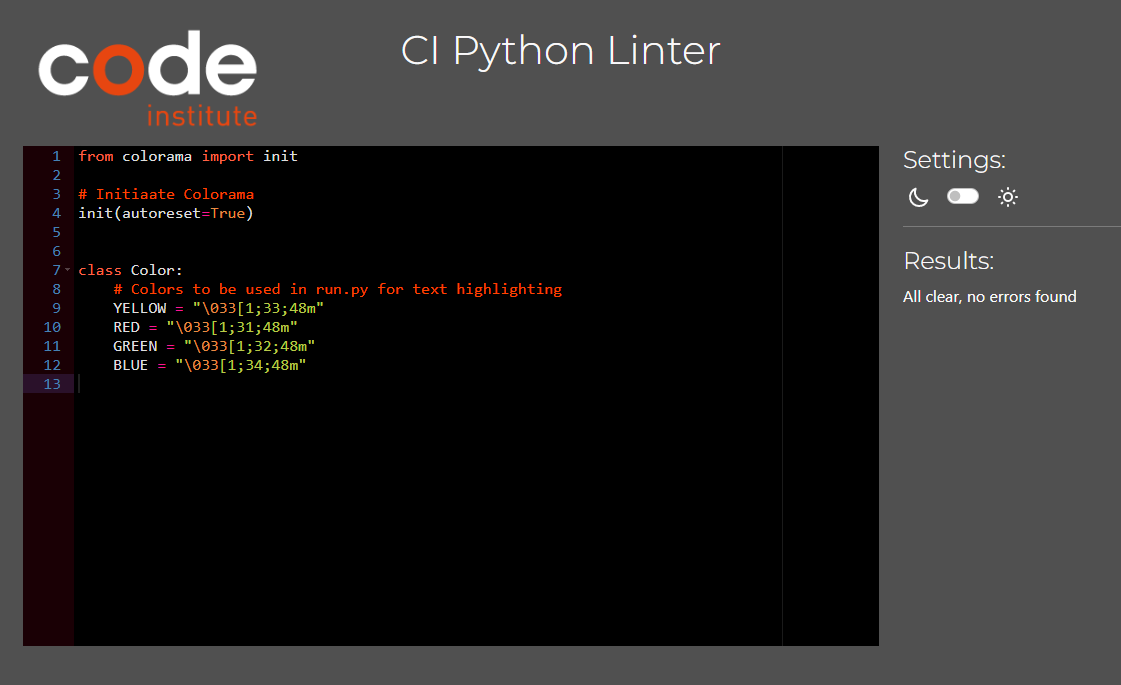
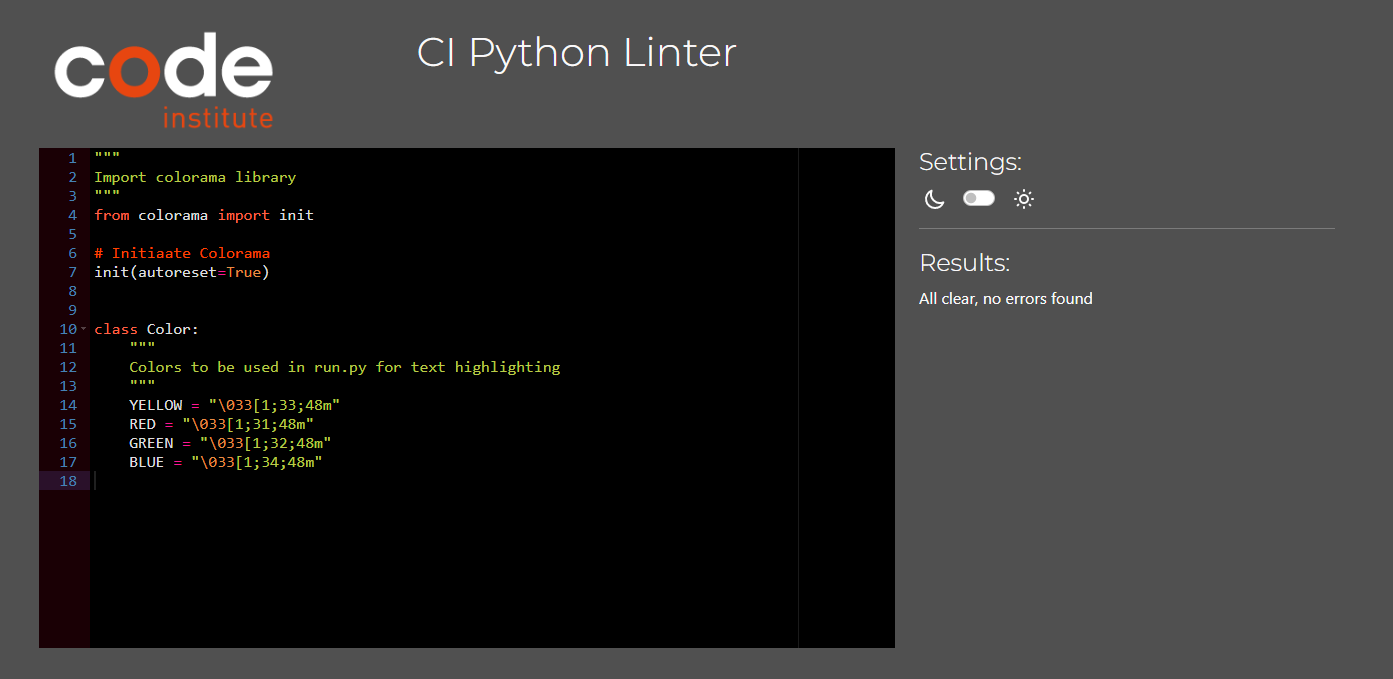
docs: add docstring where needed in run.py and colors.py to remove blue line error warning

Changed region(s): [[0.0, 0.0309, 0.9679, 0.9588], [0.0937, 0.5876, 0.2498, 0.7113], [0.281, 0.0309, 0.6557, 0.1237]]

diff --git a/colors.py b/colors.py
@@ -1,3 +1,6 @@
+"""
+Import colorama library
+"""
 from colorama import init
 
 # Initiaate Colorama
@@ -5,7 +8,9 @@ init(autoreset=True)
 
 
 class Color:
-    # Colors to be used in run.py for text highlighting
+    """
+    Colors to be used in run.py for text highlighting
+    """
     YELLOW = "\033[1;33;48m"
     RED = "\033[1;31;48m"
     GREEN = "\033[1;32;48m"

diff --git a/run.py b/run.py
@@ -1,3 +1,7 @@
+"""
+Import python 'Random Expression Library
+for use in validating email address input
+"""
 import re
 import random
 import gspread

diff --git a/README.md b/README.md
@@ -169,7 +169,7 @@ The following flowchart summarises the structure and logic of the application.
 
 #### Python Libraries
 - random - used to randomise the workout when generating
-- [unittest](https://docs.python.org/3/library/unittest.html) - used to carry out testing on single units in validation.py file
+- re - used for random expression validation when getting user email address
 
 #### Third Party Libraries
 - [colorama](https://pypi.org/project/colorama/) - JUSTIFICATION: I used this to add color to the terminal. I marked warning/error information with color red and user feedback with blue and green.
@@ -481,7 +481,7 @@ The testing approach is as follows:
 </details>
 <details><summary>User Menu</summary>
 <img src="docs/testing/user-story-12-b-1.png">
-<img src="docs/testing/user-story-12-b-2.png">
+<img src="docs/testing/user-story-12-b-2.png"> 
 </details>
 <br>
 
